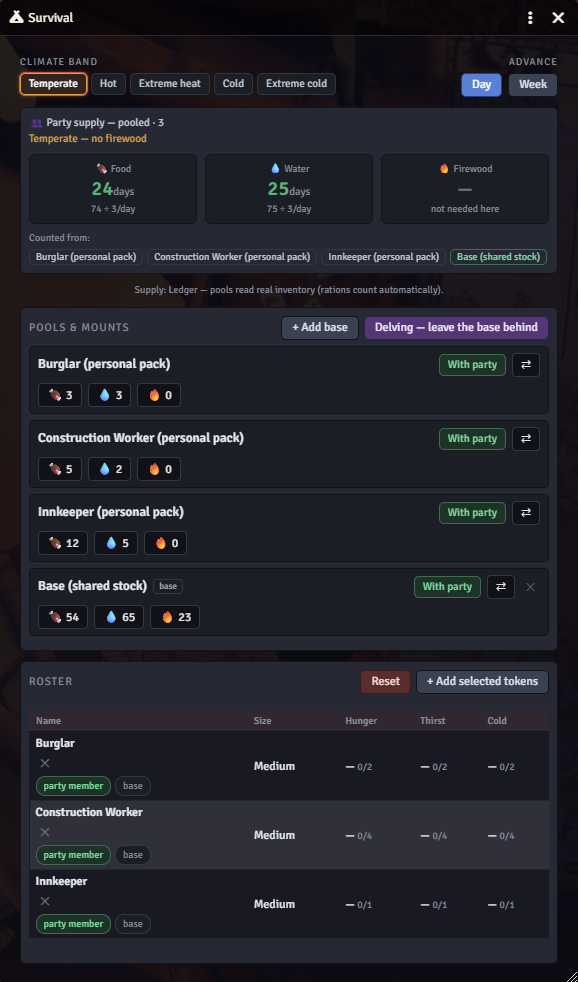
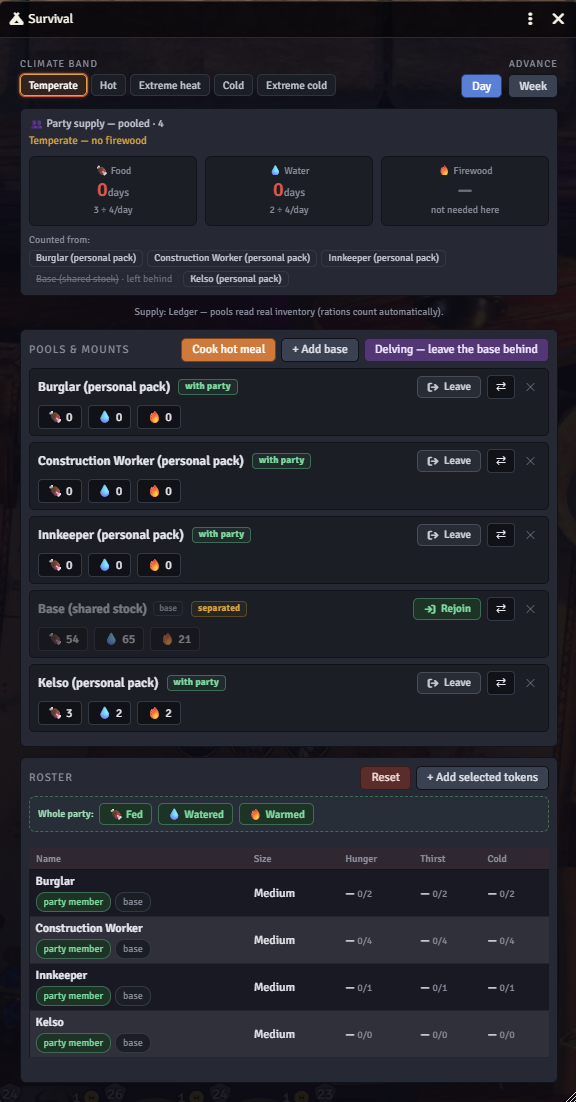
Docs: recovery + hot-meal screenshots, refreshed hero, PF2e note
Add the Recovering and Hot meals sections with their screenshots, re-shoot
the hero panel and roster for the current UI (Leave/Rejoin, remove on every
row, the recovery strip), and note at the top that the screenshots are from
a Pathfinder 2e game.

diff --git a/README.md b/README.md
@@ -9,6 +9,8 @@ Track a party's food, water, and firewood in Foundry VTT, and let hunger, thirst
 
 ![The GM survival panel](docs/images/panel.png)
 
+_All screenshots are from a Pathfinder 2e game, the module's first supported system._
+
 ## What it is
 
 TTRPG Survival System keeps the day-to-day bookkeeping of travel so you don't have to. Each day the party draws food and water from a shared pool: the characters' own packs, a base or stockpile, and mounts that carry supplies. The module tells you how many days are left before someone goes without. Run dry and hunger, thirst, or cold set in as escalating, readable statuses that ease back off once the party recovers.
@@ -98,10 +100,21 @@ Nothing dies on its own, though. When a character reaches the edge, you get a pr
 
 ![The survival-mode death prompt](docs/images/survival-mode.png)
 
+## Recovering
+
+When the party finds food, water, or a fire during the day, you can reflect it right away instead of waiting for the next daily upkeep. Each character's hunger, thirst, and cold in the roster carries a small step-down control, and there are whole-party Fed, Watered, and Warmed buttons above the roster. One click steps that track down a stage and clears the matching condition. It's a partial recovery you apply at your discretion, and it never spends your tracked supplies.
+
+![Mid-day recovery in the roster](docs/images/recovery.png)
+
+## Hot meals
+
+Cooking a hot meal burns one firewood and grants the party a well-fed buff: temporary Hit Points equal to each character's level, carried by an effect on the sheet so it clears cleanly. You can cook once a day, and the buff wears off when the next day begins or the party takes a Rest for the Night. Point the setting at your own effect item to grant something else instead.
+
+![A hot meal and its well-fed effect](docs/images/hot-meal.png)
+
 ## Extras
 
 - Foraging: a once-a-day Survival check that adds food to the shared pool.
-- Hot meal: burn one firewood to give the party a well-fed buff, temporary Hit Points equal to each character's level. You can cook once a day, and the buff clears when the next day begins or the party takes a Rest for the Night.
 - Create Water: when the party would otherwise go thirsty, a caster with a water spell prepared is prompted to cast it. The player decides, the GM can override, and any water the party doesn't drink that day evaporates.
 
 ![The Create Water prompt](docs/images/create-water.png)

diff --git a/docs/SCREENSHOTS.md b/docs/SCREENSHOTS.md
@@ -1,8 +1,10 @@
 # Screenshots — shot list
 
-The README front page references the ten images below. Capture them and drop them in
+The README front page references the twelve images below. Capture them and drop them in
 `docs/images/` with these exact names; until then GitHub shows broken-image placeholders.
-The two `survival-mode*` shots were added for Survival mode in 1.2.0.
+New for 1.4.0: `recovery.png` and `hot-meal.png`. The hero `panel.png` and `roster.png` are
+worth re-taking too, since the UI gained the Leave/Rejoin controls, a remove (✕) on every pool
+row, and the mid-day recovery strip since they were first shot.
 
 General tips
 - Use the dark Foundry theme (the module UI is dark) on a Pathfinder 2e world.
@@ -13,8 +15,8 @@ General tips
 
 | File | What to capture |
 |---|---|
-| `docs/images/panel.png` | **Hero.** The whole GM panel: the "Party supply — pooled" header, the Pools & mounts list, and the roster. Pick a moment with a bit of tension — a low water day — so it reads at a glance. |
-| `docs/images/roster.png` | The panel's roster section: a few characters with the **party-member / base chips** under their names and the mount shown as `Gargantuan ×8`. |
+| `docs/images/panel.png` | **Hero. Re-take for 1.4.0.** The whole GM panel with the current UI: the "Party supply — pooled" header, the Pools & mounts rows (each with its state chip, a Leave/Rejoin button, and a remove ✕), and the roster with the recovery strip. Pick a low-water day so there's some tension. |
+| `docs/images/roster.png` | **Re-take.** The panel's roster: a few characters with the party-member / base chips under their names, the mount shown as `Gargantuan ×8`, and the whole-party Fed / Watered / Warmed strip above the table. |
 | `docs/images/header.png` | Close-up of the **supply header** in Extreme heat: the days-of-supply cells with their `stored ÷ need/day` math, the climate-effects line, and the **"Counted from:"** chips — ideally with a base **struck through as "left behind"** so the separation cliff is visible. |
 | `docs/images/upkeep-card.png` | The **daily upkeep chat card** after advancing into a shortfall: grouped by character, each with what they went without and their hunger/thirst/cold. |
 | `docs/images/hud.png` | The **player HUD** (log in as a player, or show it via `api.openHud()`): the pooled header plus each member's worst status, and the "kept warm?" toggle in a cold climate. |
@@ -23,3 +25,5 @@ General tips
 | `docs/images/create-water.png` | The **Create Water** prompt — the GM coordination dialog listing eligible casters, or the player's "Conjure water?" dialog. |
 | `docs/images/survival-mode-and-pace-settings.png` | The **module-settings** rows for **Survival mode** (Off / Harsh / Survival) and **Survival mode pace** (Slower / Balanced / Faster), so the three tiers and the pace are visible. |
 | `docs/images/survival-mode.png` | The **death prompt** with Survival mode on — the "at death's door" dialog for a character (Confirm death / Knock to Dying / Spare). Turn `Survival mode` on, advance a stranded party until someone hits the fatal stage. Bonus: frame it with the roster behind, showing a red "Dying of thirst" status. |
+| `docs/images/recovery.png` | **New.** The roster with the mid-day recovery controls: a character or two carrying hunger/thirst/cold, the small green step-down (▾) on those tracks, and the whole-party **🍖 Fed / 💧 Watered / 🔥 Warmed** strip above the table. Deprive a small party a couple of days first so the stages show. |
+| `docs/images/hot-meal.png` | **New.** A cooked hot meal: the **Cook hot meal** button in the Pools & mounts header, and the **well-fed effect** (its custom icon) on a token or character sheet with the temporary Hit Points it grants. Enable Hot meal, have firewood on hand, and click Cook. |